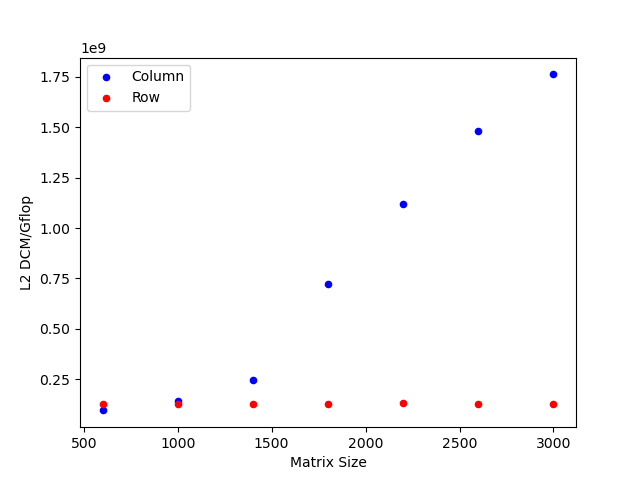
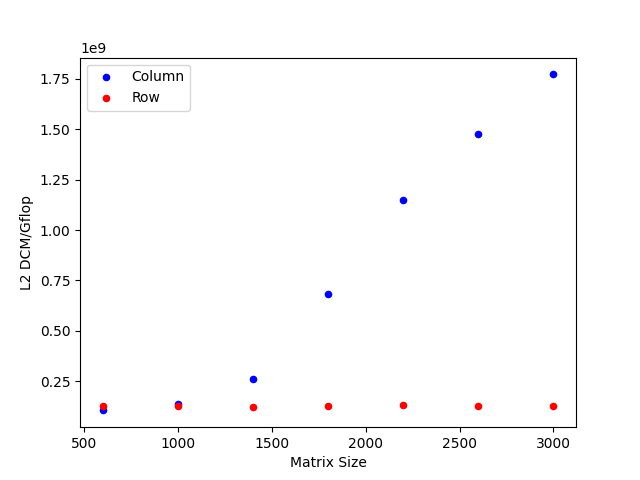
Ran experiments for new algorithms

diff --git a/plotter.py b/plotter.py
@@ -9,10 +9,10 @@ plots_dir = path.join(dir, 'plots')
 results_dir = path.join(dir, 'results')
 os.makedirs(path.join(dir, 'plots'), exist_ok=True)
 
-exp_1 = 'exp_1_2021-03-03 09:03:20.271109.csv'
-exp_2a = 'exp_2a_2021-03-03 16:41:42.152823.csv'
-exp_2b = 'exp_2b_2021-03-03 18:15:05.165873.csv'
-exp_3 = 'exp_3_2021-03-03 21:57:52.261995.csv'
+exp_1 = 'exp_1_2021-03-15 19:16:26.210611.csv'
+exp_2a = 'exp_2a_2021-03-15 19:22:26.269138.csv'
+exp_2b = 'exp_2b_2021-03-15 20:52:59.217319.csv'
+exp_3 = 'exp_3_2021-03-16 00:33:23.159561.csv'
 
 df_1 = pd.read_csv(path.join(results_dir, exp_1))
 df_2a = pd.read_csv(path.join(results_dir, exp_2a))

diff --git a/src/matrixprod.cpp b/src/matrixprod.cpp
@@ -194,7 +194,6 @@ int main(int argc, char *argv[]) {
         break;
     }
 
-
     memset(resMatrix, 0, MATRIX_SIZE_BYTES);
 
     ret = PAPI_stop(EventSet, values);
